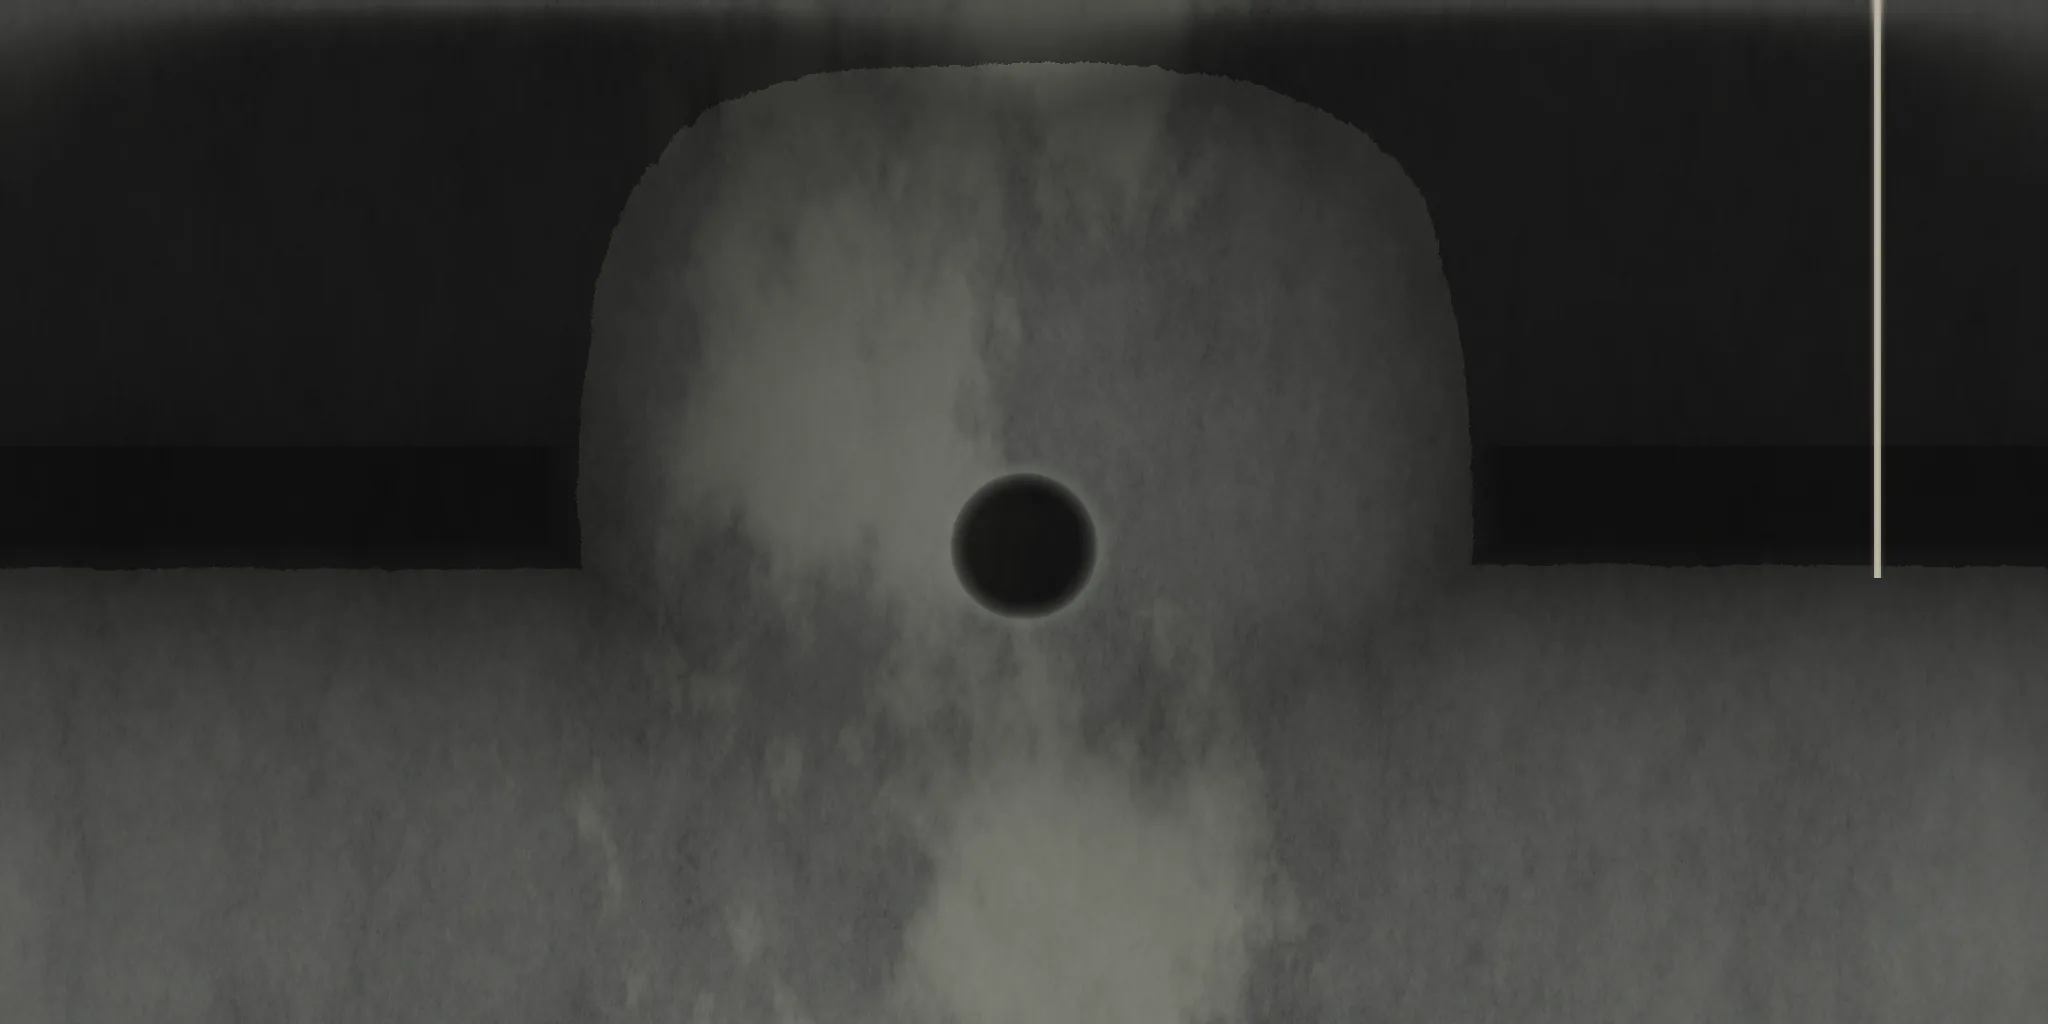
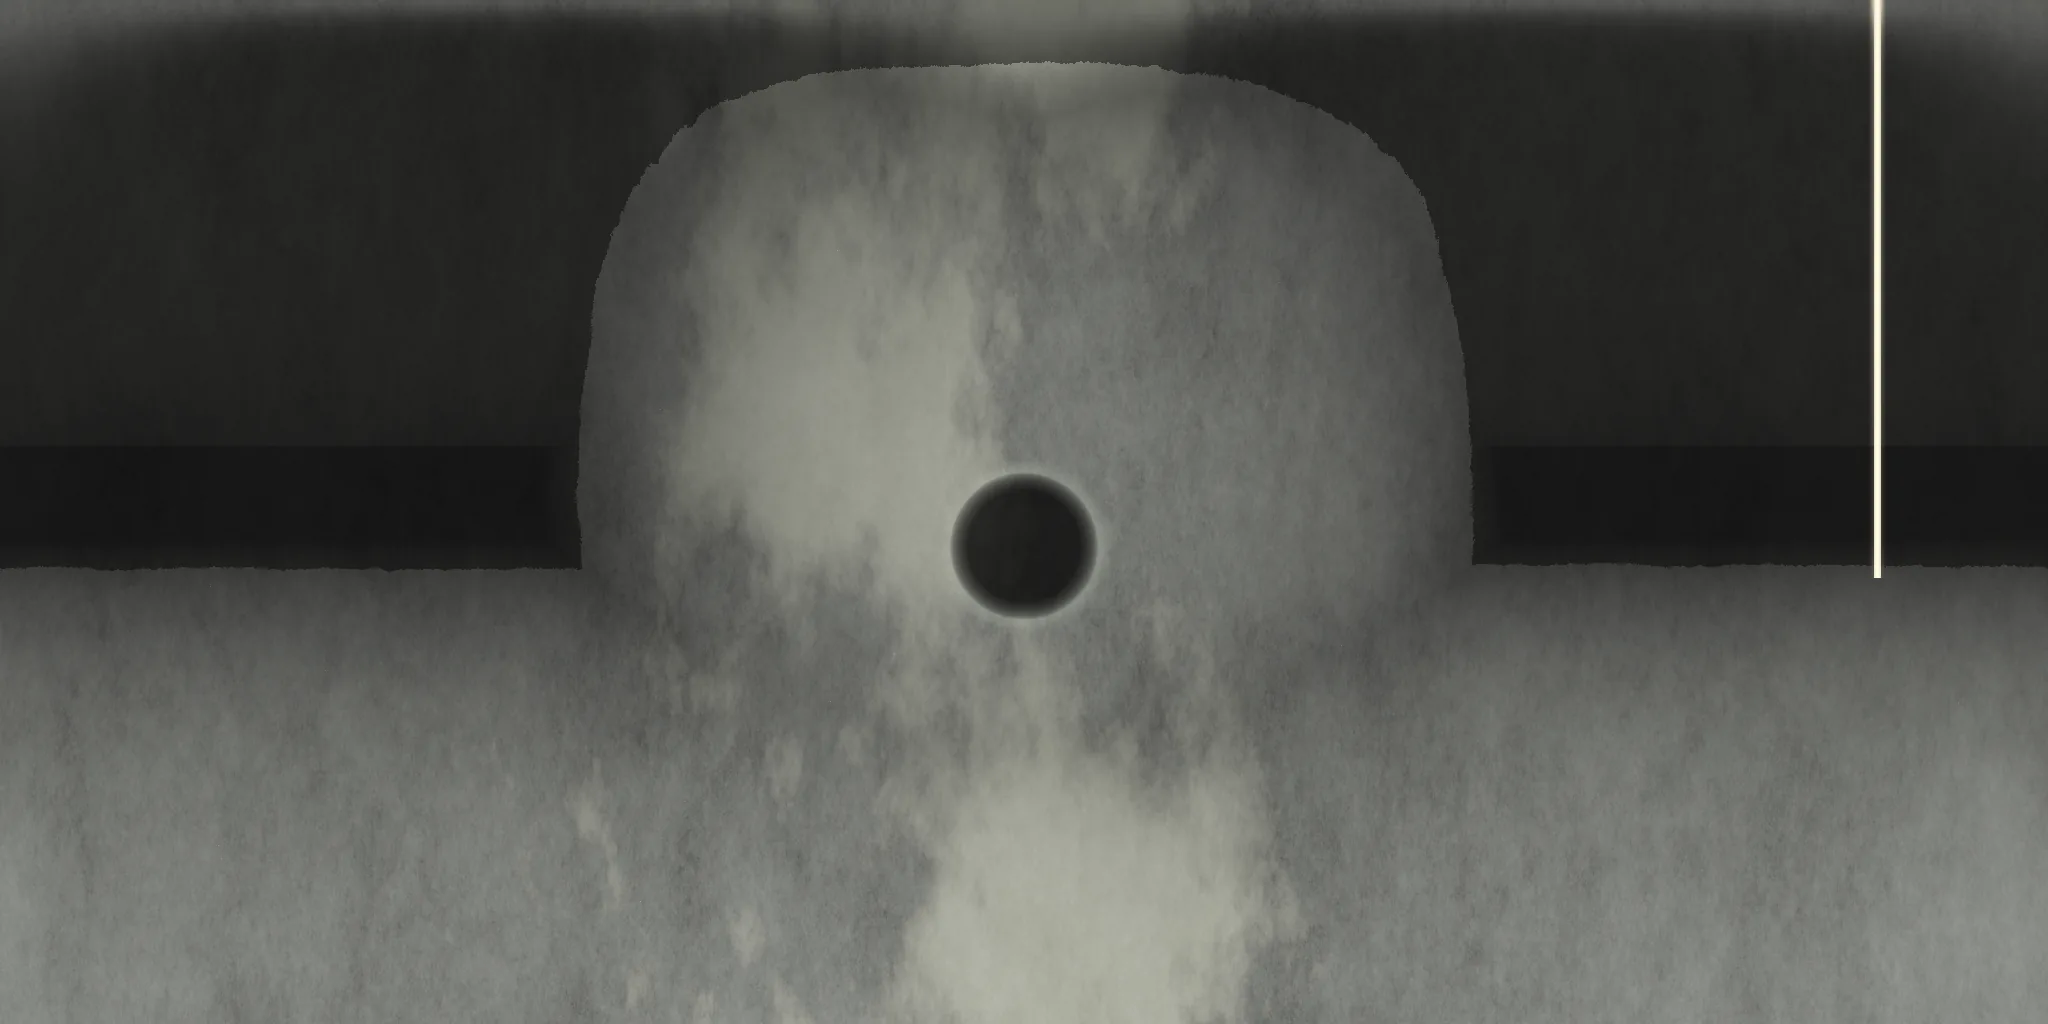
Immersioni: aspetto dell'acqua e della torcia ritoccati, suggerimento che sparisce, prova nel browser (schermate in docs/concept/immersioni_prova_*), sezione «Il motore» in docs/IMMERSIONI.md
Claude-Session: https://claude.ai/code/session_01LtYKTxhXVWyszPdu5S731m

diff --git a/src/app/dive.ts b/src/app/dive.ts
@@ -138,6 +138,7 @@ export class Dive {
   private spotsEl: HTMLDivElement;
   private confirmEl: HTMLDivElement | null = null;
   private capTimer = 0;
+  private hintTimer = 0;
   private destroyed = false;
 
   constructor(private d: DiveDeps) {
@@ -409,7 +410,10 @@ export class Dive {
         this.fade = Math.min(1, this.fade + dt / 0.9);
         if (this.fade >= 1) {
           this.phase = 'look';
-          if (!this.run.dens.length && this.run.place === this.d.data.start) this.hintEl.classList.add('show');
+          if (!this.run.dens.length && this.run.place === this.d.data.start) {
+            this.hintEl.classList.add('show');
+            this.hintTimer = 8;
+          }
         }
         break;
       case 'out':
@@ -433,7 +437,8 @@ export class Dive {
         break;
     }
     const wantBurst = this.phase === 'out' || this.phase === 'ascend' || this.phase === 'loading' ? 1 : this.phase === 'in' ? 1 - this.fade : 0;
-    this.burst += (wantBurst - this.burst) * (1 - Math.exp(-dt * 4));
+    this.burst += (wantBurst - this.burst) * (1 - Math.exp(-dt * 6));
+    if (this.burst < 0.01) this.burst = 0;
 
     // l'aria
     this.run.update(dt);
@@ -456,6 +461,10 @@ export class Dive {
         const s = p.sleeper;
         this.play(sleepSounds(p.den), { gain: 0.5, lowpass: 600, ...(s ? { pos: dirPos(s.yaw + (p.yaw ?? 0), 3, s.pitch) } : {}) });
       }
+    }
+    if (this.hintTimer > 0) {
+      this.hintTimer -= dt;
+      if (this.hintTimer <= 0) this.hintEl.classList.remove('show');
     }
     if (this.capTimer > 0) {
       this.capTimer -= dt;

diff --git a/src/engine/shaders.ts b/src/engine/shaders.ts
@@ -129,9 +129,10 @@ void main() {
   if (uHas.z > 0.5) {
     float tk = 1.0;
     if (uTorch.w > 0.0) {
-      float cs = dot(d, uTorch.xyz);
-      // il bordo del cono sfuma, il centro è più forte; fuori resta un filo di luce diffusa nell'acqua
-      tk = 0.04 + smoothstep(uTorch.w, mix(uTorch.w, 1.0, 0.55), cs) * (0.75 + 0.5 * smoothstep(mix(uTorch.w, 1.0, 0.7), 1.0, cs));
+      // x = angolo dal centro del fascio diviso il mezzo angolo del cono (circa): la luce cala morbida dal centro al
+      // bordo e oltre; fuori resta un filo di luce diffusa nell'acqua
+      float x = sqrt(max(0.0, 1.0 - dot(d, uTorch.xyz)) / max(1e-4, 1.0 - uTorch.w));
+      tk = 0.03 + 1.1 * exp(-2.2 * x * x);
     }
     c += dec(texture(uLant, uv), uScale.z) * uW.z * tk;
   }
@@ -311,7 +312,8 @@ uniform float uBurst;       // 0..1: le bolle dell'erogatore davanti alla masche
 uniform float uAspect;
 
 float torchK(vec3 d) {
-  return uTorchOn * smoothstep(uTorchCos, mix(uTorchCos, 1.0, 0.6), dot(d, uTorchDir));
+  float x = sqrt(max(0.0, 1.0 - dot(d, uTorchDir)) / max(1e-4, 1.0 - uTorchCos));
+  return uTorchOn * exp(-2.2 * x * x);
 }
 
 /** Un anello di bolla (bordo chiaro, dentro quasi vuoto). */
@@ -365,7 +367,7 @@ void main() {
     }
   }
   // le bolle dell'erogatore: salgono davanti alla maschera (spazio dello schermo)
-  if (uBurst > 0.0) {
+  if (uBurst > 0.01) {
     for (int l = 0; l < 2; l++) {
       float fl = float(l);
       vec2 g = vec2(vUv.x * uAspect * (9.0 + fl * 7.0), vUv.y * (9.0 + fl * 7.0) - uTime * (2.2 + fl * 1.3));

diff --git a/tools/immersioni_segnaposto.py b/tools/immersioni_segnaposto.py
@@ -62,14 +62,14 @@ def save(name, rgb, alpha=None):
     Image.fromarray(a).save(os.path.join(OUT, name + '.webp'), quality=82, method=6)
 
 
-def write_place(name, albedo, dist, sky_light, wobble=0.12):
+def write_place(name, albedo, dist, sky_light, wobble=0.12, torch=4.0, reach=3.2):
     """Scrive i tre file di un posto. albedo: colore delle superfici (lineare); dist: metri dall'occhio;
     sky_light: luce dall'alto già pronta (lineare), che si somma all'ambiente."""
     # ambiente: un chiarore verde-blu che viene dall'alto, quasi niente sui fondi
     from_above = np.clip(0.25 + 0.75 * DZ, 0, 1) ** 2
     amb = albedo * (0.010 + 0.035 * from_above)[..., None] * np.array([0.55, 0.9, 1.0]) + sky_light
     # torcia: come una lampada sull'occhio, cala col quadrato della distanza
-    lant = albedo * (1.6 / (1 + (dist / 2.2) ** 2))[..., None] * np.array([1.0, 0.96, 0.85])
+    lant = albedo * (torch / (1 + (dist / reach) ** 2))[..., None] * np.array([1.0, 0.96, 0.85])
     data = np.zeros((H, W, 3))
     data[..., 0] = np.sqrt(np.clip(dist, 0, 2500) / 2500)
     data[..., 1] = wobble
@@ -190,7 +190,7 @@ def cameretta():
     slime = np.clip((noise(0.9) - 0.2) * 2, 0, 1)
     alb = alb * (1 - 0.5 * slime[..., None]) + slime[..., None] * np.array([0.03, 0.06, 0.03])
     sky = np.zeros_like(alb)
-    write_place('cameretta', alb, dist, sky, wobble=0.1)
+    write_place('cameretta', alb, dist, sky, wobble=0.1, torch=1.6, reach=2.2)
 
 
 def dormiente():

diff --git a/docs/IMMERSIONI.md b/docs/IMMERSIONI.md
@@ -77,3 +77,110 @@ addormentata, con una piccola animazione (il respiro, le bolle).
 2. Un prototipo con la sola tana di Gulpy: l'alba con le bombole, la discesa, la grotta grande, Gulpy che dorme, il
    pesce lasciato accanto al letto, la notte dopo senza di lui.
 3. Se convince, le altre tane una alla volta, nell'ordine in cui arrivano i mostri.
+
+## Il motore
+
+> **Fatto l'11 ottobre, con contenuti segnaposto.** Il motore, il flusso, la simulazione e il salvataggio ci sono;
+> i panorami sono **finti** (grotte procedurali e una «cameretta» qualsiasi, brutti di proposito) finché non
+> arrivano i render veri delle grotte e le camerette approvate. **Da approvare**: le regole dell'aria, i testi,
+> l'aspetto dell'acqua, il manometro disegnato, i punti cliccabili.
+
+### Come si gioca, oggi
+
+- **All'alba** di una notte vinta, dalla prima alla quinta (se la notte dopo è giocabile in questa build), la
+  schermata dei risultati mostra anche **«Oltre la quota»** (i pesci avanzati alle sei) e il tasto **«Scendi con le
+  bombole»** sopra «Notte successiva». L'immersione è facoltativa.
+- **Giù**: si parte **sotto la barca**. Ti guardi attorno come sulla barca (bordi dello schermo, `A`/`D`), e anche in
+  su e in giù (bordo alto e basso, `W`/`S`): in alto la luce della superficie e la chiglia. I passaggi sono cerchietti
+  tenui che si accendono passandoci sopra, col nome; si clicca e si passa con una dissolvenza al nero con le bolle
+  davanti alla maschera. In basso a destra c'è sempre **«Risali»**; si risale anche cliccando la cima dell'ancora.
+- **La torcia** segue lo sguardo con un piccolo ritardo e trema appena: fuori dal cono resta quasi buio.
+  **L'acqua**: la nebbia verde-blu (dalla distanza del passo dati), le particelle sospese che vanno alla deriva e si
+  accendono nella torcia, i raggi che scendono dall'alto, l'immagine che trema appena, si galleggia ondeggiando.
+- **La grotta grande**: un'apertura per ogni tana dei mostri **già arrivati** (dopo la prima notte: Gulpy, Molly,
+  Hatch e Robin); le altre non si vedono ancora. Il fondo enorme davanti si guarda soltanto («Dal fondo, nel buio,
+  respira qualcosa di enorme»): non ci si entra.
+- **Le tane**: il mostro dorme sul letto e respira (la toppa del respiro si dissolve sopra la posa) e fa salire le
+  bolle. Cliccandolo, se hai un pesce, compare la conferma **«Lasci il pesce accanto a Gulpy?»**; sì, e quel
+  mostro **la notte dopo non viene**. La tana del **mostro nuovo** della notte dopo è **vuota** («La tana è vuota.
+  Chi ci dorme è già in giro.»).
+- **L'aria** (proposta, numeri in `immersioni.json` → `air`): nuotare nelle grotte non costa; ogni tana nuova costa
+  0,42 dell'aria, che l'ago fa scendere nei 30 secondi in cui ci resti (uscendo prima scende subito). Dopo due tane
+  non si entra in una terza («Non c'è abbastanza aria per un'altra tana»; nelle tane già viste si torna) e resta
+  una riserva di 25 secondi: a metà suona l'avviso («L'aria sta finendo»), quando finisce si risale da soli. Il
+  manometro è un ago su un quadrante disegnato nell'angolo in basso a sinistra (TODO: il quadrante renderizzato,
+  come quello del voltmetro).
+- **Risaliti**, si va all'intro della notte dopo.
+
+### La simulazione
+
+- `NightSim` ha un'opzione `fed` (il quarto argomento, `NightOptions`): il mostro sfamato **non parte mai** in tutta
+  la notte (la regia non lo lascia partire, e il sonar non lo annuncia); gli altri vengono come sempre.
+- `canFeed(notte, mostro)` in `src/game/config.ts`: si sfama chi gira nella notte, **tranne il mostro nuovo** di
+  quella notte (la sua tana è vuota); se gli si passa il nuovo, l'opzione non conta. `ARRIVAL` dice in che notte
+  arriva ognuno.
+- `npm run sim -- <notte> <partite> --sfama`: per ogni abilità il bot gioca la notte senza aiuti, poi la rigioca
+  sfamando il mostro che lo uccide più spesso (se lo uccide solo la quota mancata, Gulpy, che si mangia i pesci).
+  L'effetto è **grande** (200 partite): notte 2, il medio passa dall'81% al 100% e il maldestro dal 58% al 100%
+  sfamando Molly; notte 4, il medio dal 73% all'83% sfamando Gulpy. Attenzione: sfamare un mostro cambia la regia
+  (le coppie che non vengono insieme), e nella quarta notte il maldestro che sfama Archie va **peggio** (dal 51% al
+  45%: Lampy viene più spesso). Le notti si dovranno **ribilanciare** quando le immersioni saranno approvate.
+
+### Il salvataggio
+
+In `src/app/save.ts`, oltre a quello che c'era: `dawn` (l'ultima alba: la notte vinta e quanti pesci avanzavano oltre
+la quota; giù se ne porta uno solo, gli altri restano alla Madre), `fed` (il mostro sfamato e la notte in cui dorme:
+vale anche se quella notte si rigioca, finché non la vinci) e `dens` (le tane viste, anche quelle vuote). I vecchi
+salvataggi si leggono lo stesso.
+
+### I file
+
+| File | Cosa c'è |
+|---|---|
+| `src/app/dive_run.ts` | Le regole di un'immersione senza grafica (`DiveRun`): passaggi visibili, tane chiuse/vuote/col mostro, l'aria, il pesce. E i tipi del file di dati. Test in `tests/dive.test.ts`. |
+| `src/app/dive.ts` | La modalità immersione: carica i posti, lo sguardo, la torcia, l'acqua, i punti cliccabili, il manometro, la conferma del pesce, i suoni. |
+| `src/app/app.ts` | Il flusso: alba → «Scendi con le bombole» → immersione → notte dopo (col mostro sfamato). |
+| `src/engine/renderer.ts`, `shaders.ts` | Nuovo nel motore: la nebbia degli strati configurabile (`fog`), la torcia sul passo lanterna (`torch`), la tinta di uno strato, il passo dell'acqua `WATER_FS` (raggi, particelle, alone della torcia, colonne di bolle, le bolle dell'erogatore) al posto dell'atmosfera della notte, `removeLayer` per liberare le texture. Le notti non cambiano. |
+| `public/assets/img/immersioni.json` | I posti, i passaggi, le tane, l'aria e l'aspetto dell'acqua. |
+| `tools/immersioni_segnaposto.py` | Genera i panorami segnaposto in `public/assets/img/immersioni/segnaposto/`. |
+
+### Come si aggiungono i posti veri
+
+Tutto sta in `public/assets/img/immersioni.json`; il codice non cambia.
+
+1. **Il panorama** di un posto: un equirettangolare a 360° (meglio la sfera intera, `latMin` −90 e `latMax` 90,
+   così si guarda in su e in giù), con i passi `ambient` (la luce dell'acqua, quasi buio), `lantern` (la scena
+   accesa da una luce sull'occhio: il motore la mostra solo nel cono della torcia) e `data` (R = sqrt(distanza /
+   2500 m), come il passo dati del mondo, per la nebbia; G = quanto trema l'immagine, 0,1 circa). Si codificano
+   come gli altri render (gamma 4, con la loro `scale`). `size` è la larghezza e l'altezza in pixel, `yaw` la
+   rotazione, `look` dove guardi arrivando, `rays` quanta luce scende dall'alto.
+2. **I passaggi** (`links`): `to` (il posto), `yaw` e `pitch` (gradi, nel panorama del posto: dove sta l'apertura),
+   `r` (il raggio cliccabile in gradi), `label` (il nome che compare: chiave di `STRINGS.dive.links`). Un passaggio
+   con `ascend: true` fa risalire; uno con `note` mostra una didascalia (`STRINGS.dive.notes`).
+3. **Le tane**: un posto con `den: "<mostro>"`. Il passaggio verso una tana si vede solo quando quel mostro è già
+   arrivato; per il mostro nuovo della notte dopo la tana è vuota. Il mostro che dorme sta in `sleeper`: `yaw`,
+   `pitch`, `r` (dove si clicca per lasciargli il pesce), `layers` (gli strati ritagliati sopra il panorama: la posa,
+   poi le toppe con `breath`, il periodo in secondi con cui si dissolvono sopra la posa; `rect` in pixel del
+   panorama del posto) e `bubbles` (da dove salgono le bolle). Se la posa è dipinta nel panorama, `panoEmpty` dà il
+   panorama della tana vuota.
+4. **La memoria**: un panorama a sfera intera con tre passi pesa molto in GPU (8192 × 4096 RGBA sono 128 MB a
+   passo). Il motore tiene in memoria **un posto solo**: lo carica quando ci arrivi (durante la dissolvenza al nero)
+   e lo libera quando te ne vai. Il passo `lantern` può stare a mezza risoluzione, come quello del mondo.
+5. **I suoni** nuovi si mettono nel manifest dell'audio con i nomi già previsti in `src/app/dive.ts` (`dive_amb`,
+   `dive_breath`, `dive_bubbles`, `dive_air_low`, `dive_sleep_<mostro>`, `dive_mother`…): il motore li usa al
+   posto dei ripieghi (oggi il ronzio della barca ovattato, gli schizzi, il bip del sonar, il respiro di Gulpy).
+
+### La prova nel browser
+
+Provato l'11 ottobre nel Chromium headless con `?step` (nessun errore in console): la prima notte vinta con tre
+pesci oltre la quota, «Scendi con le bombole», sotto la barca, la grotta grande, la tana di Gulpy col pesce lasciato,
+la tana vuota di Robin, la terza tana rifiutata per l'aria, l'aria che finisce e la risalita da soli, l'intro della
+seconda notte e la notte con Gulpy che dorme. Le schermate sono in `docs/concept/immersioni_prova_*.jpg` (i panorami
+sono i segnaposto).
+
+### Cosa manca
+
+- I render veri (le grotte le sta facendo un altro lavoro; le camerette e le pose addormentate sono da approvare),
+  il quadrante del manometro e le bombole sulla barca all'alba (oggi solo il tasto).
+- Il pesce posato accanto al letto (una toppa nella tana), le scoperte delle tane nel diario.
+- I suoni nuovi (vedi sopra) e il ribilanciamento delle notti col mostro sfamato.
